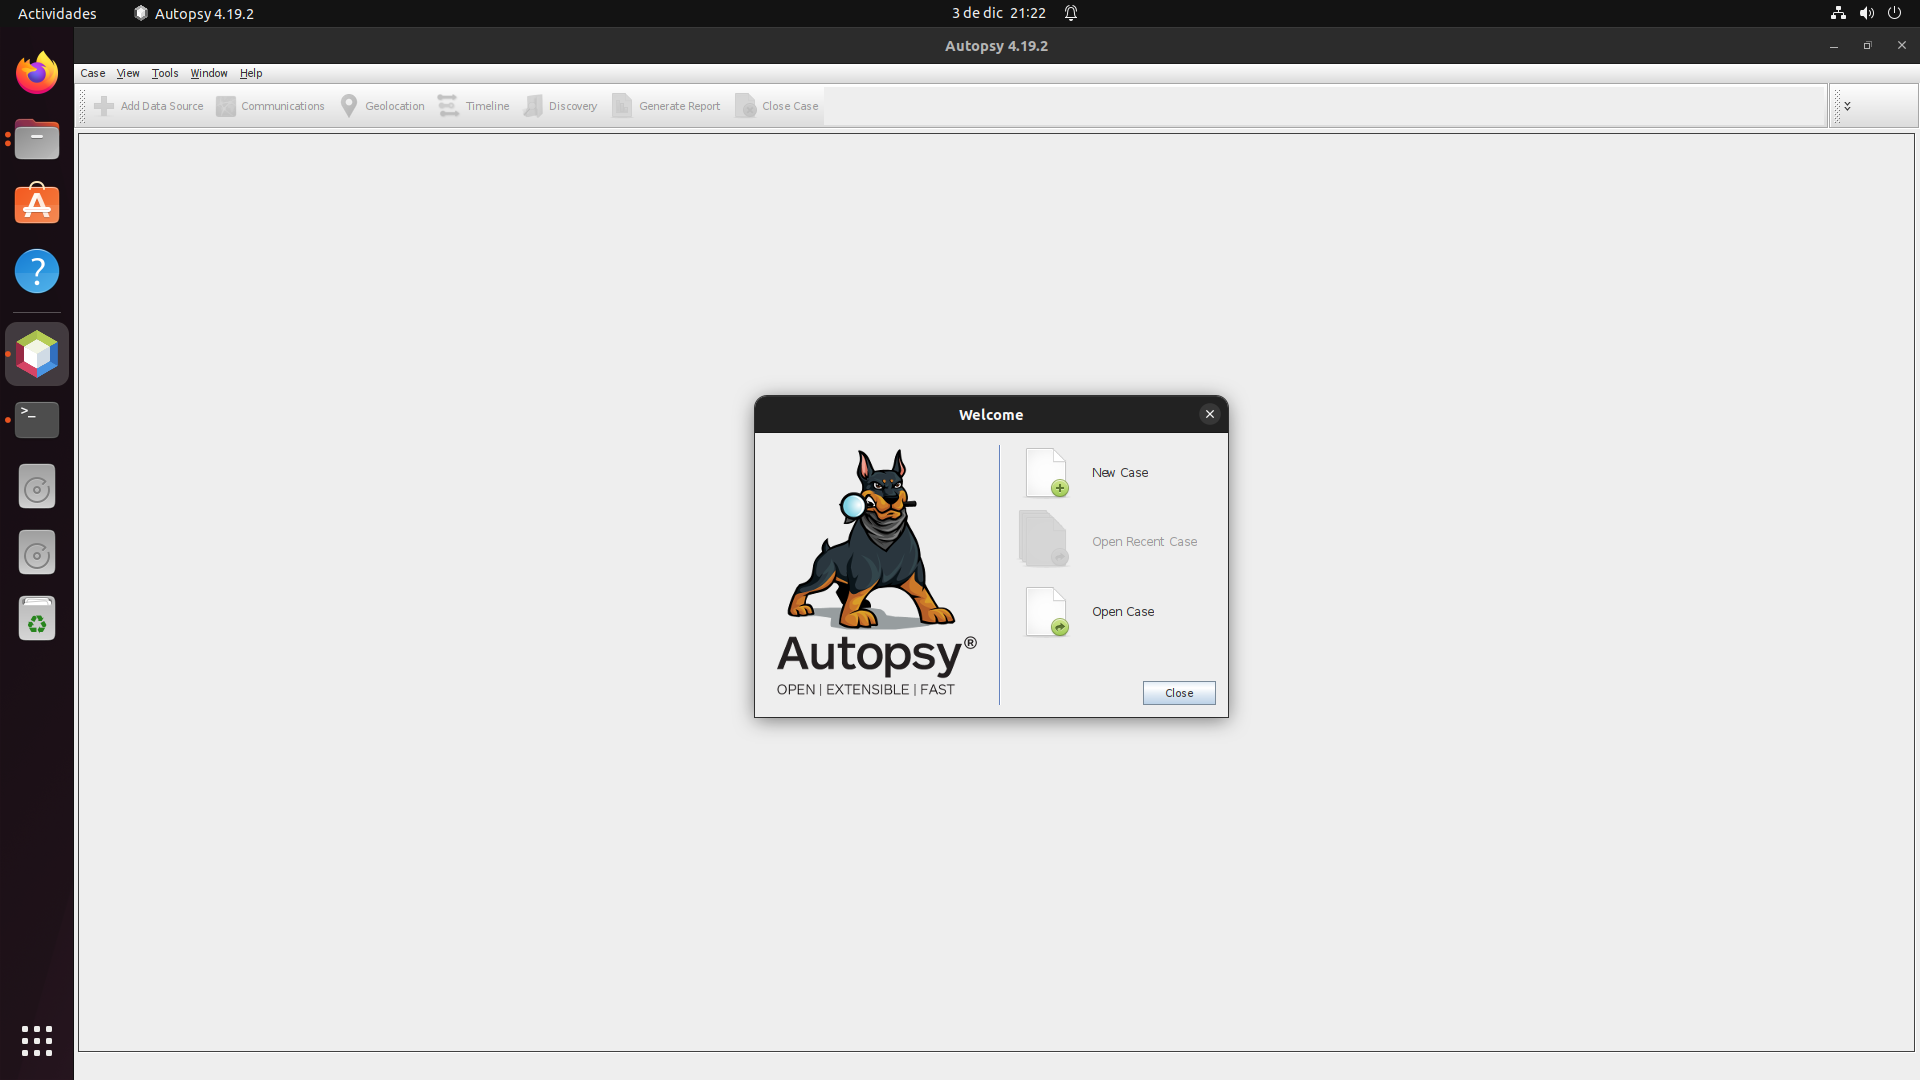
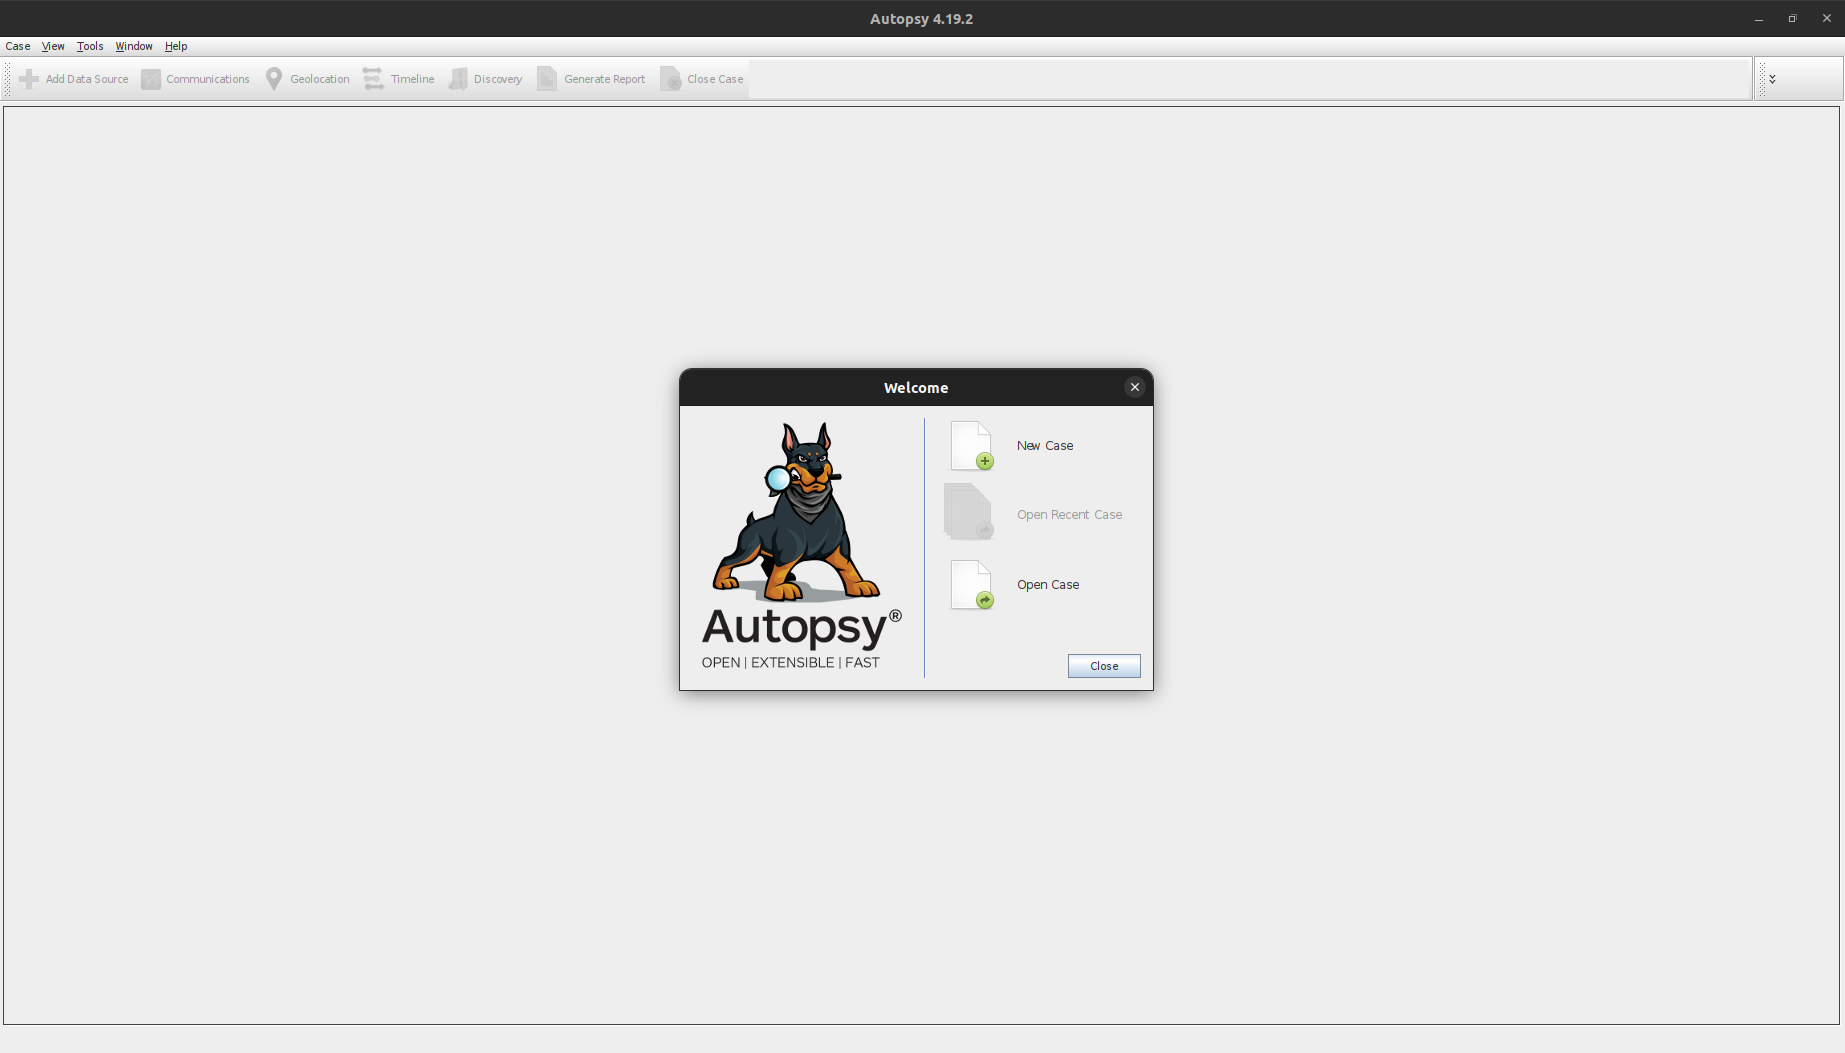
Insertadas las imagenes al documento

Changed region(s): [[0.0, 0.0, 1.0, 1.0], [0.3398, 0.3343, 0.6488, 0.699]]

diff --git a/P4S1/Practica 4 Sesion 1.tex b/P4S1/Practica 4 Sesion 1.tex
@@ -27,8 +27,8 @@
 %\addcontentsline{toc}{section}{Ejercicio 1}
 %\section*{Ejercicio 1}
 %\begin{figure}[H]
+%    \centering
 %    \includegraphics[width=\textwidth]{imagenes/passwdfile.png}
-%    \caption{Ejemplo de entradas en el archivo.}
 %\end{figure}
 
 \addcontentsline{toc}{section}{Ejercicio 1}
@@ -39,58 +39,94 @@ Voy a crear una partición con el sistema de archivos FAT32 (debido a problemas 
 Y ahora a modo de realismo, voy a copiar las imagenes usadas durante estas practicas y un archivo dentro de la carpeta ``mis trabajos'' denominado ``amenaza.txt'' con una frase que amenace.
 
 %Foto de la carpeta con archivos y del archivo amenaza
-%Captura desde 2022-12-02 17-34-22
-%Captura desde 2022-12-02 17-35-50
+\begin{figure}[H]
+    \centering
+    \includegraphics[width=\textwidth]{imagenes/Captura desde 2022-12-02 17-34-22.png}
+\end{figure}
+
+\begin{figure}[H]
+    \centering
+    \includegraphics[width=\textwidth]{imagenes/Captura desde 2022-12-02 17-35-50.png}
+    \caption{Contenido del archivo a eliminar del pendrive.}
+\end{figure}
 
 A continuacion elimino esse archivo y desmonto el disco para suponer que he recibido el pendrive asi y para que no pueda realizarle mas modificaciones.
 
 Ahora voy a seguir los pasos indicados en el guion de practicas, por tanto, lo primero que hay que hacer es obtener la estructura interna de particiones con la orden \verb|fdisk -l /dev/sdX > fdisk.disco1| siendo la X la letra asignada al disco, en mi caso es a. (se puede comprobar con la orden \verb|fdisk -l| o \verb|lsblk|).
 
 %foto de la salida del comando
-%Captura desde 2022-12-03 21-28-00
+\begin{figure}[H]
+    \centering
+    \includegraphics[width=\textwidth]{imagenes/Captura desde 2022-12-03 21-28-00.png}
+\end{figure}
 
 Lo siguiente que hay que hacer es crear una imagen forense del disco para evitar invalidar el contenido del pendrive y trabajar de forma segura sobre una copia. Esto se realiza mediante la orden \verb|dd if=/dev/sda1 of=imagen.disco1 bs=512|.
 
 %salida de dd
-%Captura desde 2022-12-03 21-31-25
+\begin{figure}[H]
+    \centering
+    \includegraphics[width=\textwidth]{imagenes/Captura desde 2022-12-03 21-31-25.png}
+\end{figure}
 
 Ahora es necesario poner la imagen del disco a solo lectura con la orden \verb|chmod 444 imagen.disco1|. El siguiente paso, que es copiar la imagen a otro disco no es necesario, ya que se puede trabajar directamente sobre la imagen como explicare a continuacion. Ahora se debe montar la imagen con la orden \verb|mount imagen.disco1 /mnt -o noexec,loop|, y al hacer \verb|lsblk -f| se puede ver que está montado correctamente.
 
 %foto de la salida de lsblk
-%Captura desde 2022-12-03 21-32-34
-%caption{Se puede ver que el nombre que tiene es \texttt{loop16} y que se ha montado correctamente en el punto de montaje indicado.}
+\begin{figure}[H]
+    \centering
+    \includegraphics[width=\textwidth]{imagenes/Captura desde 2022-12-03 21-32-34.png}
+    \caption{Se puede ver que el nombre que tiene es \texttt{loop16} y que se ha montado correctamente en el punto de montaje indicado.}
+\end{figure}
 
 Ahora es necesario verficar la integridad de los datos del pendrive antes y despues de completar el analisis, para ello se usa la orden \verb|sha1sum /dev/sda1 > SHA.disco1|.
 
 %foto de sha1sum
-%Captura desde 2022-12-03 21-36-15
+\begin{figure}[H]
+    \centering
+    \includegraphics[width=\textwidth]{imagenes/Captura desde 2022-12-03 21-36-15.png}
+\end{figure}
 
 Y ahora, voy a realizar lo mismo, pero sobre cada archivo. En este caso se debe hacer sobre la imagen porque al montar el pendrive puede darse el caso de que el hash cambie. Para ello, desde la raiz de la imagen montada, se debe hacer con la orden \verb|find . -type f -exec sha1sum {} \; > SHA.listaArchivos|.
 
 %salida del comando con bat
-%Captura desde 2022-12-02 18-41-07
+\begin{figure}[H]
+    \centering
+    \includegraphics[width=\textwidth]{imagenes/Captura desde 2022-12-02 18-41-07.png}
+\end{figure}
 
 Y se puede realizar la verficiacion con la orden \verb|sha1sum -c ~/SHA.listaArchivos| (se debe estar dentro de la raiz de la imagen)
 
 %salida del comando.
-%Captura desde 2022-12-02 18-43-28
+\begin{figure}[H]
+    \centering
+    \includegraphics[width=\textwidth]{imagenes/Captura desde 2022-12-02 18-43-28.png}
+    \caption{Fragmento de la comprobacion de los hashes.}
+\end{figure}
 
 Ahora se puede proceder con seguridad a encontrar el archivo eliminado anteriormente. Para ello, es necesario crear un fichero con las palabras claves mas probables que se encuentren. El fichero tiene la siguiente forma:
 
 %slaida
-%Captura desde 2022-12-02 18-52-07
+\begin{figure}[H]
+    \centering
+    \includegraphics[width=\textwidth]{imagenes/Captura desde 2022-12-02 18-52-07.png}
+\end{figure}
 
 Ahora con la orden \verb|grep -aibf palabrasClave imagen.disco1 > aciertos.txt| se puede realizar la busqeuda en la imagen:
 
 %salida en aciertos.txt
-%Captura desde 2022-12-03 21-38-57
-%caption: En la dirección 13153337247 hay algo sospechoso.
+\begin{figure}[H]
+    \centering
+    \includegraphics[width=\textwidth]{imagenes/Captura desde 2022-12-03 21-38-57.png}
+    \caption{En la dirección 13153337247 hay algo sospechoso.}
+\end{figure}
 Como se puede ver, aparece la frase ``Esto es una amenaza, si no nos da algo de dinero publicamos el contenido de su pendri...'', indicando que ha habido una amenaza.
 
 Por ultimo, para asegurarse, se puede usar el comando \texttt{xxd -s 299892684 imagen.disco1 | less} para verlo en la propia imagen:
 
 %salida del comando
-%Captura desde 2022-12-03 21-39-24
+\begin{figure}[H]
+    \centering
+    \includegraphics[width=0.6\textwidth]{imagenes/Captura desde 2022-12-03 21-39-24.png}
+\end{figure}
 
 Y efectivamente, aqui tamvien aparece indicando de que ha habido una amenaza que se ha eliminado.
 
@@ -100,28 +136,43 @@ Y efectivamente, aqui tamvien aparece indicando de que ha habido una amenaza que
 EN esta parte es necesario utilizar la herramienta ``GuyMager'' para obtener una imagen forense del mismo pendrive. POr tanto, se descarga el programa mediante \verb|apt| y se abre.
 
 %foto de inicio.
-%Captura desde 2022-12-02 19-33-30
+\begin{figure}[H]
+    \centering
+    \includegraphics[width=\textwidth]{imagenes/Captura desde 2022-12-02 19-33-30.png}
+\end{figure}
 
 Y se pulsa con click derecho en el dispositivo que se quiera realizar la imagen, en mi caso \verb|/dev/sda|, y le damos a ``Acquire image''.
 
 %ventana nueva
-%Captura desde 2022-12-02 19-33-37
+\begin{figure}[H]
+    \centering
+    \includegraphics[width=0.7\textwidth]{imagenes/Captura desde 2022-12-02 19-33-37.png}
+\end{figure}
 
 Y ahora simplemente rellenamos los campos que se piden y al final quedan asi:
 
 %foto de esto relleno
-%Captura desde 2022-12-02 19-36-04
+\begin{figure}[H]
+    \centering
+    \includegraphics[width=0.7\textwidth]{imagenes/Captura desde 2022-12-02 19-36-04.png}
+\end{figure}
 
 Por ultimo, es necesario darle a ``Start'' para que comience el proceso.
 
 %foto del progreso
-%Captura desde 2022-12-02 19-48-29
-%caption{Progreso de creacion de imagen forense.}
+\begin{figure}[H]
+    \centering
+    \includegraphics[width=\textwidth]{imagenes/Captura desde 2022-12-02 19-48-29.png}
+    \caption{Progreso de creacion de imagen forense.}
+\end{figure}
 
 Al finalizar, se puede ver que ha generado varios trozos de la imagen del pendrive.
 
 %foto
-%Captura desde 2022-12-02 19-50-53
+\begin{figure}[H]
+    \centering
+    \includegraphics[width=\textwidth]{imagenes/Captura desde 2022-12-02 19-50-53.png}
+\end{figure}
 
 \addcontentsline{toc}{section}{Ejercicio 3}
 \section*{Ejercicio 3}
@@ -134,38 +185,66 @@ Al finalizar, se puede ver que ha generado varios trozos de la imagen del pendri
 Cuando se ejecuta Autopsy aparece la siguiente pantalla:
 
 %foto pantalla
-%Captura desde 2022-12-03 21-22-16
+\begin{figure}[H]
+    \centering
+    \includegraphics[width=\textwidth]{imagenes/Captura desde 2022-12-03 21-22-16.png}
+\end{figure}
 
 Ahora le damos a ``New Case'' y se le elige un nombre, la ubicacion, el numero de caso, algunso datos del examinador:
 
 %fotos rellenas
-%Captura desde 2022-12-03 21-42-29
-%Captura desde 2022-12-03 21-43-15
+\begin{figure}[H]
+    \centering
+    \includegraphics[width=\textwidth]{imagenes/Captura desde 2022-12-03 21-42-29.png}
+    \caption{Primera ventana para rellenar datos sobre el caso.}
+\end{figure}
+
+\begin{figure}[H]
+    \centering
+    \includegraphics[width=\textwidth]{imagenes/Captura desde 2022-12-03 21-43-15.png}
+    \caption{Segunda venta para rellenar datos sobre el caso.}
+\end{figure}
 
 Al darle a Finish, aparece otra ventana en la que se pide añadir una fuente de datos, en este caso al imagen creada, para ello se elige ``Disk Image or VM File'' y se elige el primer fragemnto de la imagen:
 
 %fotos rellenas
-%Captura desde 2022-12-03 21-45-13
+\begin{figure}[H]
+    \centering
+    \includegraphics[width=\textwidth]{imagenes/Captura desde 2022-12-03 21-45-13.png}
+\end{figure}
 
 Tras que el programa procese la imagen, aparece el siguiente panel:
 
 %foto panel
-%Captura desde 2022-12-03 21-46-02
+\begin{figure}[H]
+    \centering
+    \includegraphics[width=\textwidth]{imagenes/Captura desde 2022-12-03 21-46-02.png}
+\end{figure}
 
 Y ahora es necesario darle a Data Sources $\rightarrow$ imagenPendrive.E01\_1 Host $\rightarrow$ imagenPendrive.E01 $\rightarrow$ vol4.
 
 %foto salida
-%Captura desde 2022-12-03 21-47-44
+\begin{figure}[H]
+    \centering
+    \includegraphics[width=\textwidth]{imagenes/Captura desde 2022-12-03 21-47-44.png}
+\end{figure}
 
 Como se puede ver, hay 3 particiones que hacian que versiones antiguas de Autopsy (con interfaz web) no pudiesen detectar el sistema de archivos correctamente y solo funcionasen en modo raw.
 
 Ahora bien, hay dos opciones de ver archivos eliminados, la primera es yendo a la ubicacion donde estaba el archivo, y la segunda es dandole al boton del panel de la izquierda ``Deleted Files''.
 
 %foto de deleted files y el otro
-%Captura desde 2022-12-03 21-52-53
-%caption: Archivo encontrado en ``Deleted Files''.
-%Captura desde 2022-12-03 21-53-51
-%caption: Archivo encontrado yendo a la ruta en el qie se encontraba.
+\begin{figure}[H]
+    \centering
+    \includegraphics[width=\textwidth]{imagenes/Captura desde 2022-12-03 21-52-53.png}
+    \caption{Archivo encontrado en ``Deleted Files''.}
+\end{figure}
+
+\begin{figure}[H]
+    \centering
+    \includegraphics[width=\textwidth]{imagenes/Captura desde 2022-12-03 21-53-51.png}
+    \caption{Archivo encontrado yendo a la ruta en el qie se encontraba.}
+\end{figure}
 
 Y como se puede ver detecta el archivo eliminado del pendrive y muestra su informacion.
 
@@ -182,20 +261,29 @@ Y como se puede ver detecta el archivo eliminado del pendrive y muestra su infor
 Lo primero de todo es encontrar la hoja de calculo en la imagen del ordenador de Jean. Es posible buscarla dandole a File Views $\rightarrow$ By Extension $\rightarrow$ Documents $\rightarrow$ Office.
 
 %foto
-%Windows/Captura de pantalla (5)
-%caption{Como se puede observar abajo en ``Text'', es el documento que ha sido filtrado.}
+\begin{figure}[H]
+    \centering
+    \includegraphics[width=\textwidth]{imagenes/Windows/Captura de pantalla (5).png}
+    \caption{Como se puede observar abajo en ``Text'', es el documento que ha sido filtrado.}
+\end{figure}
 
 AHora hay qeu darle a la pestaña ``File Metadata'' donde se indican todos los datos relacionados con el documento.
 
 %foto
-%Windows/Captura de pantalla (6)
+\begin{figure}[H]
+    \centering
+    \includegraphics[width=\textwidth]{imagenes/Windows/Captura de pantalla (6).png}
+\end{figure}
 
 Se puede ver que la hoja de calculo fue creada el \textbf{20 de julio de 2008 a las 03:28:03 CEST}.
 
 Ademas, en la pestaña ``Text'', justo debajo del contenido del documento, aparecen mas datos interesantes.
 
 %foto
-%Windows/Captura de pantalla (7)
+\begin{figure}[H]
+    \centering
+    \includegraphics[width=\textwidth]{imagenes/Windows/Captura de pantalla (7).png}
+\end{figure}
 
 El mas notable es que fue creado por Alison Smith y que hay otra fecha de creacion distinta a la pestanña de los metadatos, pero personalmente creo que es mejor fiarse de la de metadatos, ya que estos datos pueden ser modificados.
 
@@ -207,15 +295,24 @@ Sabiendo los testimonios de los posibles implicados, se puede intuir que Jean en
 Para tener pruebas fehacientes de esto, podemos mirar el historial de correos de Jean, para ello, nos vamos a Data Artifacts $\rightarrow$ E-Mail Messages $\rightarrow$ Default $\rightarrow$ Default.
 
 %foto overview
-%Windows/Captura de pantalla (8)
+\begin{figure}[H]
+    \centering
+    \includegraphics[width=\textwidth]{imagenes/Windows/Captura de pantalla (8).png}
+\end{figure}
 
 Tras mirar la conversacion entre Jean y Alison, pidiendole a Jean que trabaje y que no mande correos extraños que parecen SPAM, aparece un correo muy interesante de Alison.
 
 %fotos hacker
-%Windows/Captura de pantalla (9)
+\begin{figure}[H]
+    \centering
+    \includegraphics[width=\textwidth]{imagenes/Windows/Captura de pantalla (9).png}
+\end{figure}
 
-%Windows/Captura de pantalla (10)
-%caption para una de ellas: Se puede ver que le insiste a Jean que le envie la informacion y le dice que no se lo diga a nadie.
+\begin{figure}[H]
+    \centering
+    \includegraphics[width=\textwidth]{imagenes/Windows/Captura de pantalla (10).png}
+    \caption{Para una de ellas: Se puede ver que le insiste a Jean que le envie la informacion y le dice que no se lo diga a nadie.}
+\end{figure}
 
 Además, se ve que Jean le manda la hoja de calculo que se ha filtrado y al dia siguiente algunos empleados le preguntan que por que su informacion esta en internet, preguntandole a Jean que si la que hay sobre el es correcta. Por tanto se puede asumir que el correo de Alison ha sido comprometido y ha sido usado de manera maliciosa para obtener estos datos.
 
